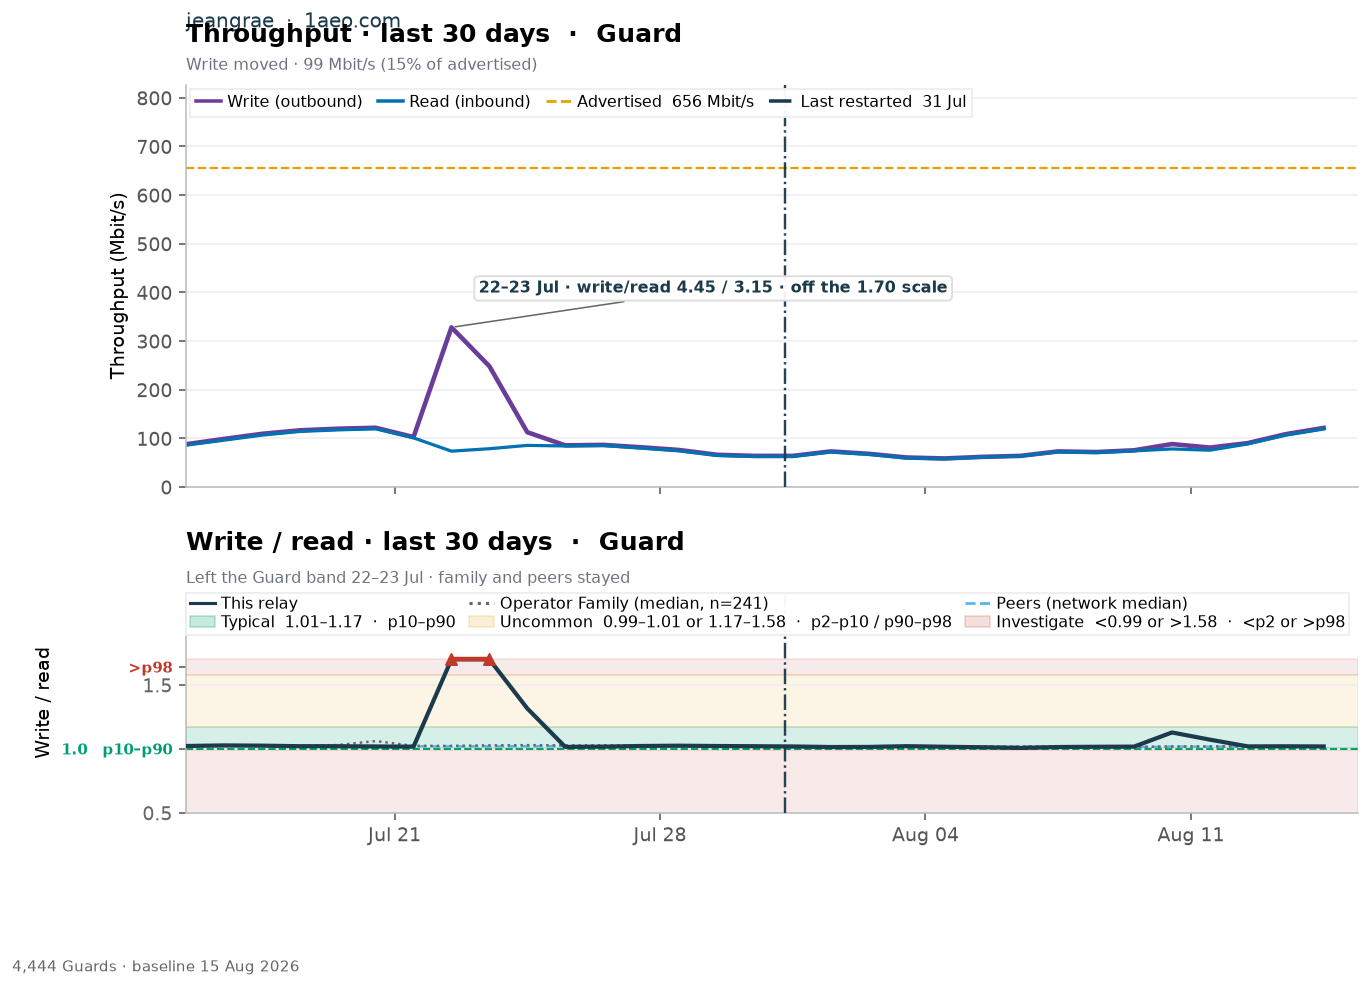
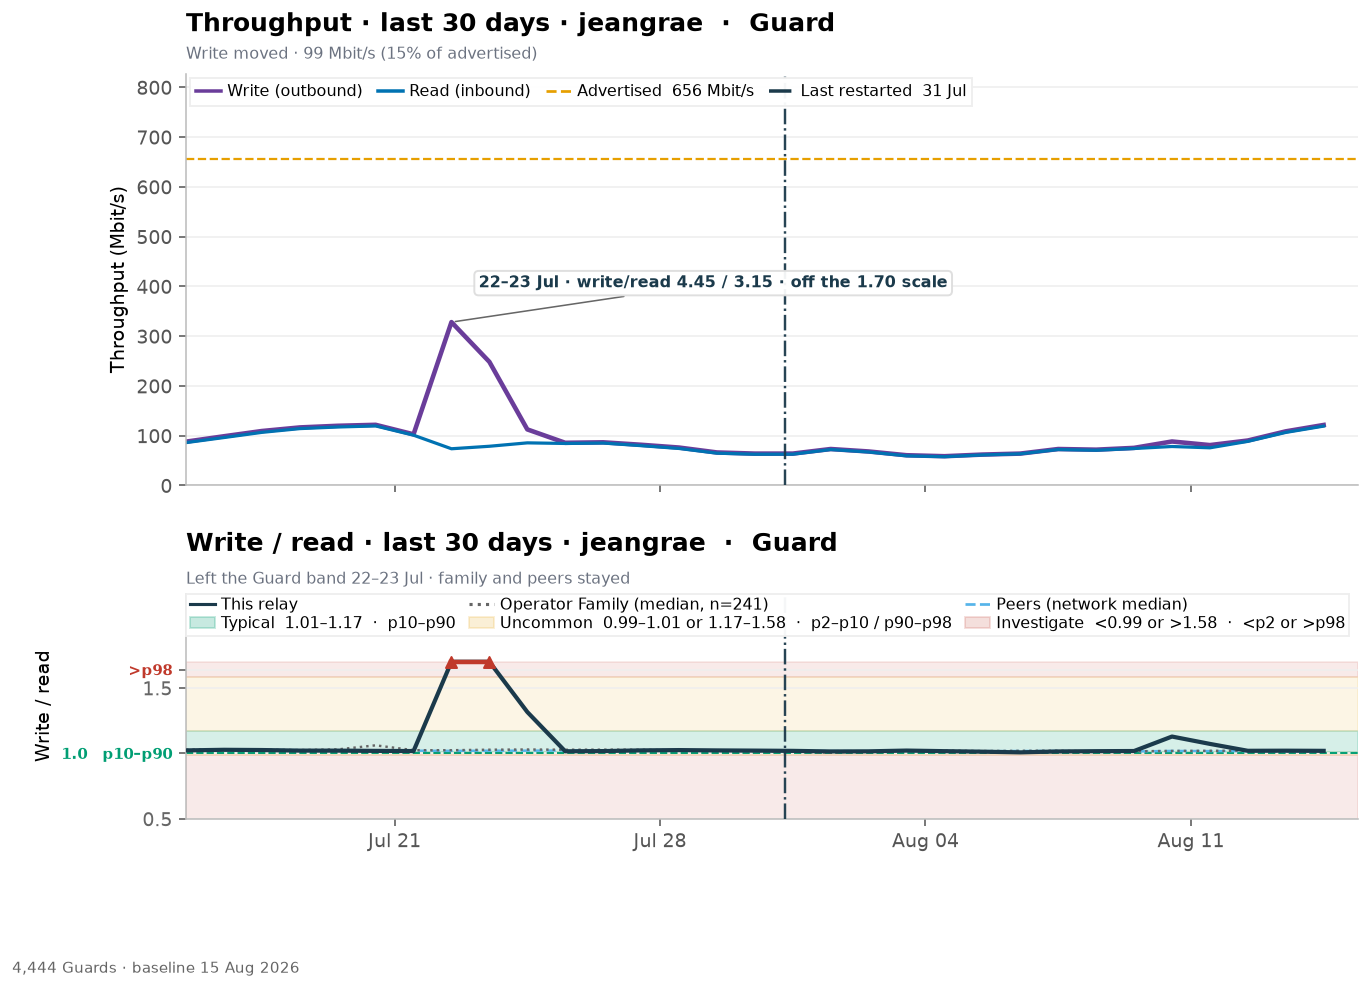
Refresh C outcome mockups with nickname in the title
C table, jeangrae/F3 live charts, and style 5 now use
Throughput · last 30 days · {nickname} · {role}. All-clear F3
subtitles stay empty.

diff --git a/docs/features/planned/charts/mockups/relay_page_bw_outcomes.html b/docs/features/planned/charts/mockups/relay_page_bw_outcomes.html
@@ -107,14 +107,14 @@ code { font-size:12px; background:#eee; padding:1px 4px; border-radius:3px; }
   
   <section class="section-box recommend">
     <h4>jeangrae · C who moved</h4>
-    <p class="relay-meta">Write moved off the Guard band; family and peers stayed. Identity sits above Throughput: jeangrae · 1aeo.com. Throughput is raw plus percent of advertised.</p>
+    <p class="relay-meta">Write moved off the Guard band; family and peers stayed. Title is Throughput · last 30 days · jeangrae · Guard. Throughput is raw plus percent of advertised.</p>
     <div class="chart-wrap">
       <img src="relay_bandwidth_outcome_c_jeangrae.png" alt="jeangrae · C who moved">
     </div>
   </section>
   <section class="section-box recommend">
     <h4>F3Netze · C who moved</h4>
-    <p class="relay-meta">All-clear month: typical write/read, no investigate day, no spike, no crash. Subtitles stay empty. Overload is the legend diamond. Identity sits above Throughput: F3Netze · f3netze.de.</p>
+    <p class="relay-meta">All-clear month: typical write/read, no investigate day, no spike, no crash. Subtitles stay empty. Overload is the legend diamond. Title is Throughput · last 30 days · F3Netze · Exit+Guard.</p>
     <div class="chart-wrap">
       <img src="relay_bandwidth_outcome_c_f3.png" alt="F3Netze · C who moved">
     </div>
